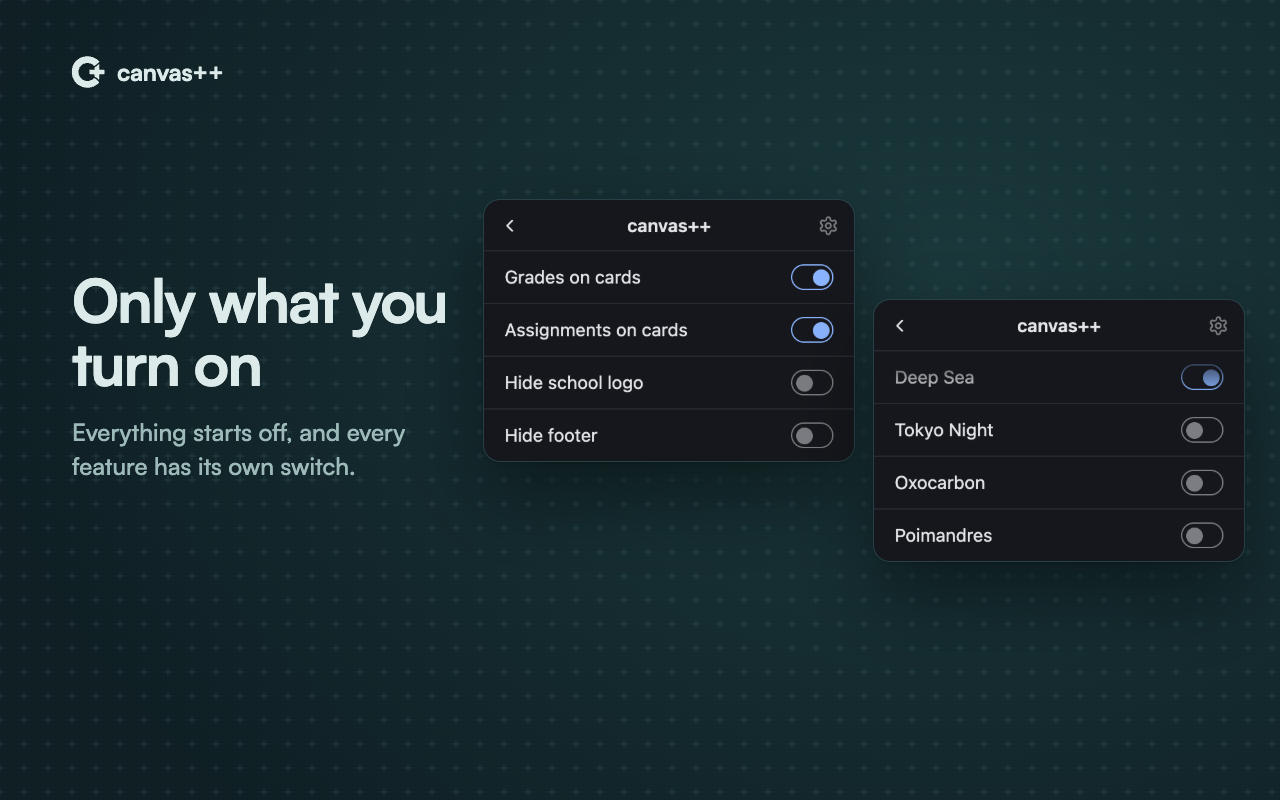
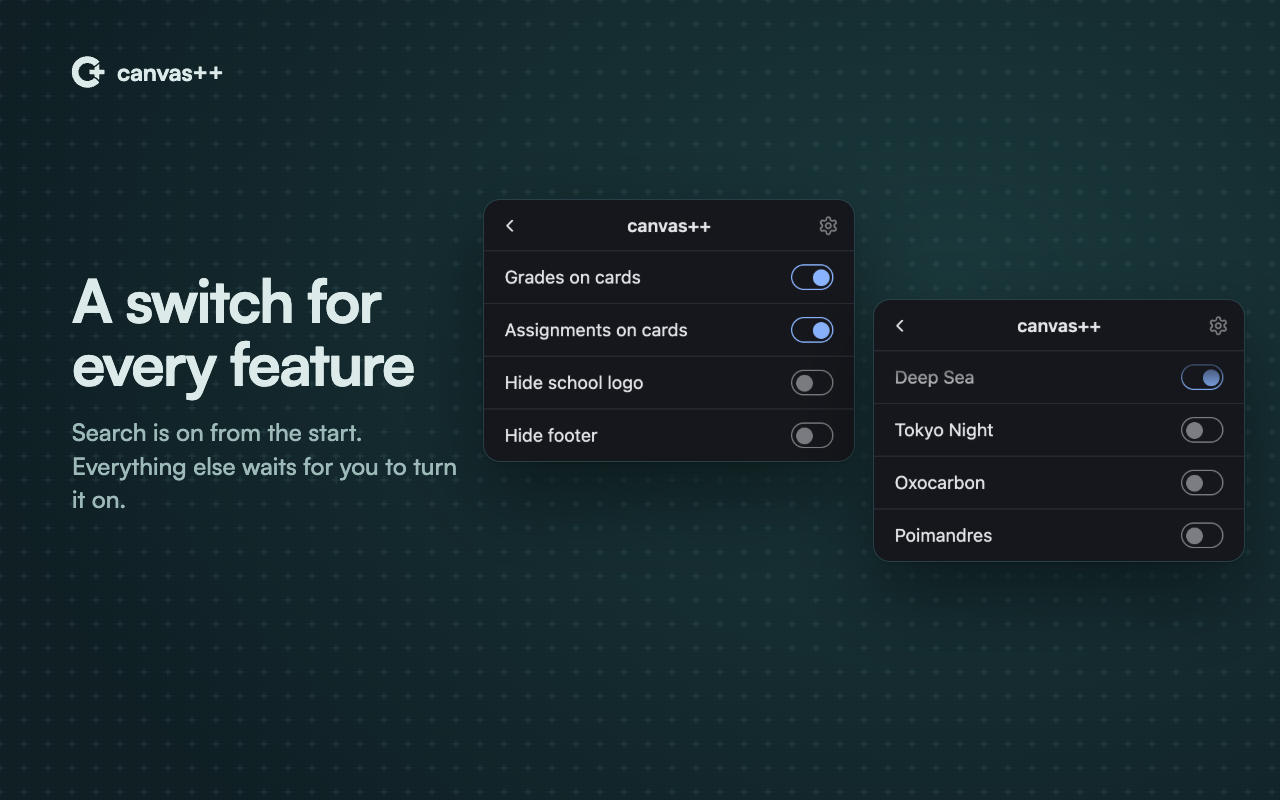
Turn search on by default, and list Canvas tabs open at install
Search is the one feature on from the start: it changes nothing on the
page until it's opened. The first Canvas page after install already makes
its list once it has loaded; Canvas tabs open at install don't have the
content script until they're reloaded, so the background starts it in
their top frames. A tab that gets it both ways starts it once.

The store's description and switches slide say search is on from the
start. The browser tests' switch helper takes a switch's default, and the
search test keeps the items request now that posts have their own.

Changed region(s): [[0.0312, 0.3438, 0.375, 0.5], [0.0625, 0.5312, 0.375, 0.6562]]

diff --git a/src/features/domains/domains.ts b/src/features/domains/domains.ts
@@ -17,6 +17,9 @@ export function sitePattern(url: string): string {
   return `${new URL(url).origin}/*`;
 }
 
+// the manifest content script's sites
+const BUILT_IN = 'https://*.instructure.com/*';
+
 /** Whether the manifest's content script already runs on this page. */
 export function isBuiltIn(url: string): boolean {
   const { protocol, hostname } = new URL(url);
@@ -88,20 +91,42 @@ export async function themeOpenTabs(origins: string[]): Promise<void> {
   const domains = origins.filter(isCustomDomain);
   if (!domains.length) return;
   const tabs = await browser.tabs.query({ url: domains });
-  await Promise.all(
-    tabs.map(async ({ id }) => {
-      if (id === undefined) return;
-      const target = { tabId: id, allFrames: true };
-      try {
-        await browser.scripting.insertCSS({ target, files: SCRIPT.css });
-        // executeScript takes its own path form, from the extension's root
-        await browser.scripting.executeScript({
-          target,
-          files: ['/content-scripts/content.js'],
-        });
-      } catch {
-        // the tab navigated away or closed meanwhile; nothing to theme
-      }
-    }),
+  await Promise.all(tabs.map(({ id }) => runIn(id, true)));
+}
+
+/** Whether a tab on the manifest's sites is a Canvas page, not DocViewer's. */
+export function isCanvasTab(url: string): boolean {
+  return isBuiltIn(url) && !new URL(url).hostname.startsWith('canvadocs');
+}
+
+/**
+ * Starts the extension on the Canvas tabs open as it's installed, which the
+ * manifest's script only reaches once they're reloaded, so the search lists
+ * what's there before it's first opened. Only their top frames: with nothing
+ * turned on yet but the search, which runs only there, the frames have nothing
+ * to do. On an update the old script may still be running in them, so it's
+ * for a first install only.
+ */
+export async function startOnOpenTabs(): Promise<void> {
+  const tabs = await browser.tabs.query({ url: BUILT_IN });
+  const canvas = tabs.filter(
+    ({ url }) => url !== undefined && isCanvasTab(url),
   );
+  await Promise.all(canvas.map(({ id }) => runIn(id, false)));
+}
+
+// The content script and its styles, in a page that's already loaded.
+async function runIn(tabId: number | undefined, allFrames: boolean) {
+  if (tabId === undefined) return;
+  const target = { tabId, allFrames };
+  try {
+    await browser.scripting.insertCSS({ target, files: SCRIPT.css });
+    // executeScript takes its own path form, from the extension's root
+    await browser.scripting.executeScript({
+      target,
+      files: ['/content-scripts/content.js'],
+    });
+  } catch {
+    // the tab navigated away or closed meanwhile, or can't be reached
+  }
 }

diff --git a/src/features/domains/domains.test.ts b/src/features/domains/domains.test.ts
@@ -1,5 +1,5 @@
 import { describe, expect, it } from 'vitest';
-import { isBuiltIn, isCustomDomain, sitePattern } from './domains';
+import { isBuiltIn, isCanvasTab, isCustomDomain, sitePattern } from './domains';
 
 describe('sitePattern', () => {
   it('matches the whole site', () => {
@@ -30,5 +30,16 @@ describe('isCustomDomain', () => {
     ['http://canvas.case.edu/*', false],
   ])('%s -> %s', (pattern, custom) => {
     expect(isCustomDomain(pattern)).toBe(custom);
+  });
+});
+
+describe('isCanvasTab', () => {
+  it("is a page on Canvas's own sites, but not DocViewer", () => {
+    expect(isCanvasTab('https://school.instructure.com/courses/1')).toBe(true);
+    expect(isCanvasTab('https://canvadocs.instructure.com/1/view')).toBe(false);
+    expect(
+      isCanvasTab('https://canvadocs-iad-prod.instructure.com/1/view'),
+    ).toBe(false);
+    expect(isCanvasTab('https://canvas.case.edu/')).toBe(false);
   });
 });

diff --git a/tests/e2e/search.spec.ts b/tests/e2e/search.spec.ts
@@ -88,6 +88,7 @@ const MODULES: Record<
 };
 
 let courseRequests = 0;
+// the request for the assignments and module items; the posts have their own
 let graphqlBody: { query: string; variables: Record<string, string> };
 
 test.beforeEach(async ({ page: p }) => {
@@ -97,9 +98,10 @@ test.beforeEach(async ({ page: p }) => {
     return route.fulfill({ json: COURSES });
   });
   await p.route(`${ORIGIN}/api/graphql`, (route) => {
-    graphqlBody = route.request().postDataJSON() as typeof graphqlBody;
+    const body = route.request().postDataJSON() as typeof graphqlBody;
+    if (body.query.startsWith('query SearchItems')) graphqlBody = body;
     const data = Object.fromEntries(
-      Object.entries(graphqlBody.variables).map(([alias, course]) => [
+      Object.entries(body.variables).map(([alias, course]) => [
         alias,
         {
           assignmentsConnection: {

diff --git a/tests/extension.ts b/tests/extension.ts
@@ -190,6 +190,7 @@ export const test = base.extend<
         /^Search with/,
         'quickSearch',
         on,
+        true,
       ),
     );
   },
@@ -204,14 +205,16 @@ export async function openPopup(context: BrowserContext): Promise<Page> {
 
 // Flips one of the popup's switches, in its section, and waits until the
 // setting is saved.
+// `fallback` is the switch's default, which an unset setting stands for
 function setSwitch(
   context: BrowserContext,
   section: string,
   name: string | RegExp,
   key: string,
   on: boolean,
+  fallback = false,
 ): Promise<void> {
-  return setInPopup(context, [section], key, on, false, (popup) =>
+  return setInPopup(context, [section], key, on, fallback, (popup) =>
     popup.getByRole('switch', { name }).setChecked(on),
   );
 }

diff --git a/src/entrypoints/background.ts b/src/entrypoints/background.ts
@@ -1,10 +1,15 @@
-import { syncRegistration, themeOpenTabs } from '@/features/domains/domains';
+import {
+  startOnOpenTabs,
+  syncRegistration,
+  themeOpenTabs,
+} from '@/features/domains/domains';
 
 export default defineBackground(() => {
   // Both browsers drop runtime registrations when the extension updates, and
   // checking on startup costs next to nothing.
-  browser.runtime.onInstalled.addListener(() => {
+  browser.runtime.onInstalled.addListener(({ reason }) => {
     void syncRegistration();
+    if (reason === 'install') void startOnOpenTabs();
   });
   browser.runtime.onStartup.addListener(() => {
     void syncRegistration();

diff --git a/src/entrypoints/content.ts b/src/entrypoints/content.ts
@@ -32,6 +32,12 @@ export default defineContentScript({
   excludeGlobs: ['https://canvadocs*'],
   runAt: 'document_start',
   main() {
+    // The background also starts it in tabs already open (domains.ts), and a
+    // tab that was loading then may get it both ways. The two share this
+    // extension's world in the page, so the second sees the first and stops.
+    const world = globalThis as { cppStarted?: boolean };
+    if (world.cppStarted) return;
+    world.cppStarted = true;
     void syncThemeToPage();
     void syncPageFlag(hideLogo, 'hide-logo');
     void syncPageFlag(hideFooter, 'hide-footer');

diff --git a/design/store-slides.ts b/design/store-slides.ts
@@ -235,8 +235,8 @@ export function slides({ looks, regions, search, popups }: Shots): Image[] {
       left: 72,
       top: 268,
       width: 390,
-      headline: 'Only what you turn on',
-      text: 'Everything starts off, and every feature has its own switch.',
+      headline: 'A switch for every feature',
+      text: 'Search is on from the start. Everything else waits for you to turn it on.',
       art:
         popup(popups.features, 370, 484, 200) +
         popup(popups.themes, 370, 874, 300),

diff --git a/src/features/search/storage.ts b/src/features/search/storage.ts
@@ -1,5 +1,7 @@
 import { storage } from '#imports';
 
+// On from the start, unlike the other features: it changes nothing on the
+// page until it's opened, and it's how people find what canvas++ lists.
 export const quickSearch = storage.defineItem<boolean>('sync:quickSearch', {
-  fallback: false,
+  fallback: true,
 });

diff --git a/PLAN.md b/PLAN.md
@@ -126,12 +126,12 @@ Off by default (popup switch). Canvas's global nav becomes a 184px sidebar that 
 
 ### Search (⌘K)
 
-Off by default (popup switch in Sidebars & search, labeled with the platform's shortcut). ⌘K on Apple devices, Ctrl+K elsewhere, opens a search box over any Canvas page (top frame only); the same keys, Escape or a click beside it close it. Ctrl+K stays the browser's on a Mac, where text fields use it, and a contenteditable field keeps the keys, in case it has its own link shortcut (the Rich Content Editor is a frame, so it never sees ours).
+On by default, the one feature that is: it changes nothing on the page until it's opened, and it's how people find what the extension lists (popup switch in Sidebars & search, labeled with the platform's shortcut). ⌘K on Apple devices, Ctrl+K elsewhere, opens a search box over any Canvas page (top frame only); the same keys, Escape or a click beside it close it. Ctrl+K stays the browser's on a Mac, where text fields use it, and a contenteditable field keeps the keys, in case it has its own link shortcut (the Rich Content Editor is a frame, so it never sees ours).
 
 - **What it finds** (`features/search/data.ts`, unit-tested): the active courses, named as the sidebar names them (nickname, else code) and found by full name and code too; each current course's menu, as the user sees it (the course's own home tab left out, since the course stands for it), so school-added tools are there; work left to do from the shared planner request; groups (the sidebar's rule); every other assignment in the current courses (quizzes and graded discussions are assignments too), coming up first, then past, then undated, leaving out what the To Do already lists (by assignment id, since a quiz's To Do link and its assignment link differ); every module item in the current courses (pages, files, links…, but not the headings), in module order, found by its module's name too ("week 3 reading"), leaving out the items that are one of the course's assignments, which are listed as themselves (`course-items.ts`, by the content's id: an assignment's, a graded discussion's assignment's, or a quiz's, matched to its assignment's `quiz { _id }`), and linked to its place in the module (`/courses/:id/modules/items/:id`, GraphQL's `url`), as the modules page links them, so an external URL item opens Canvas's page for it rather than the other site; each current course's latest 50 announcements and 50 ungraded discussions (published only; graded ones are assignments), newest first, marked with a megaphone or speech-bubble icon (named, for screen readers and on hover) after the day it was posted, written like a due day ("Thu, Oct 23"), found by their title, by what they say, and by "announcements"/"discussions", leaving out module items that are one of them; assignments (and the To Do's work that's one of them) are found by what their description says, and module pages by their text; then courses whose term is over, and Canvas's own pages (Dashboard, Calendar, Inbox, All grades…). Links only ever go to this site. Before anything is typed it lists the current courses and work due within a week.
 - **Recent** (`features/search/recent.ts`, unit-tested): before anything is typed, the last five pages opened that the box lists come first, under "Recent", with the courses and work due under "Courses and work due" (the titles only show when there's something recent). Every Canvas page is noted as it loads, by its path (and the module item it was opened as, from `module_item_id`, since Canvas sends `/courses/:id/modules/items/:id` on to the item's own page), the last 50 in the page's `localStorage` per user (`canvas++:search-visits`, `core/saved.ts`). They're matched to the listed entries by href when the box opens, so pages it doesn't list (a submission, say) are passed over, and the page that's open is left out. A page found by its path wins over its module item, so an assignment opened from a module is listed as the assignment. They're kept apart from the left sidebar's Recent, which only notes pages inside a course or group and only while it's on. Saved with the version like the rest, so an update starts the list over; turning the search off removes it.
 - **Matching** (`features/search/match.ts`, unit-tested): every word typed must start a word of the entry, or else appear in it; a word of the title scores above a word of its course, which scores above a part of a word, so "chem gr" finds CHEM 105's Grades and "chem" lists the course before its pages. Ties keep the order above. Case and accents are ignored. What a post, an assignment's description or a module page says is searched too, but a word found only there has to start one of its words (so "lab" doesn't find "available"), and whatever needs the text to match goes after everything else, so common words like "exam" don't push courses and work down.
-- **Requests:** none while something is saved for the user until the box opens. With nothing saved (the first page after the switch is turned on, or after someone else's), they're sent once the page has loaded, signed in, so the box opens full the first time. They're one `GET /api/v1/courses?enrollment_state=active&include[]=tabs&include[]=concluded` (the tabs include is undocumented in the allowed list but in Canvas's `course_json`, with the same per-user rules as the tabs API), then two GraphQL requests at once for the current courses (`features/search/course-items.ts`: a `course(id:)` alias per course, the ids as variables). One asks for the assignments and module items: `assignmentsConnection` with `gradingPeriodId: null` so a course with grading periods lists them all, at most 100 a course, each with its `description`; `modulesConnection`, at most 100 modules a course, each with all its `moduleItems`, which Canvas gives in name order, so they're sorted by `position`, a page's with its `_id` and `updatedAt`. The other asks for the posts, `discussionsConnection` twice, filtered by `isAnnouncement`: announcements come newest first, so `first: 50`, and discussions oldest first, so `last: 50`, each with its `message`. They're apart because the posts take longest and a Canvas too old to filter announcements fails only their request. GraphQL has no page bodies, and students usually can't list a course's pages (the pages list was a 404 in all six of the author's courses, whose Pages tabs are hidden), so once the items are in, each module page is asked for on its own (`GET /api/v1/courses/:id/pages/:id`, six at a time, `features/search/texts.ts`), while the posts may still be coming. Each page's text is kept per user with its `updatedAt` (`canvas++:search-pages`), so later refreshes ask only for pages edited since; a locked page's body is a lock explanation, so it's left out. Every text (posts, descriptions, pages) is reduced to its words in a parsed document of its own and cut at 6,000 characters. Announcements were sized from the author's recorded pages: 7 and 30 in two courses ten weeks into the term, typically about 320 characters of text each, the longest 1,670, so 50 is about a term even for a course that posts three a week, and five such courses add under 100 KB to what's saved. On the author's six courses the posts' request was 316 KB together with the items, so it was split: the items took about 0.8 s and the posts about 1.9 s, at once; the 32 module pages (out of 178 files, 59 assignments and 29 links in the modules) came in about 0.7 s, typically 2,500 characters each and 76 KB in all, and the assignment descriptions were mostly empty, though one course had 39 KB of them. Files' text isn't searched: Canvas doesn't give it, and reading PDFs and slides in the page would take megabytes a course and a large library. On the author's six courses (about 300 module items) it was 61 KB uncompressed and about 1 s, against 13 KB and 0.5 s for the assignments alone, plus the groups (`core/groups.ts`), the colors and the planner, each asked for once a page and shared with the other features. The setting keeps a copy in the page's localStorage (`canvas++:quick-search`), so the shortcut works from the first moment of a page load. Past semesters' assignments and module items are left out: they'd crowd every search with old Homework 1s and make the request heavy. The result is kept in the page's localStorage per user (`core/saved.ts`, shared with the sidebar) for 10 minutes, so the box opens full on the next page and is refreshed behind it. It's kept with the extension's version too: what an older version saved counts as nothing, so after an update the first Canvas page asks for it again in the background, and what's new (like module items) is there at once rather than up to 10 minutes later. Reloading an unpacked build doesn't change the version, so while developing, turn the search off and on to start over.
+- **Requests:** none while something is saved for the user until the box opens. With nothing saved (the first Canvas page after the extension is installed or the switch is turned on, or after someone else's), they're sent once the page has loaded, signed in, so the box opens full the first time. Canvas tabs already open when the extension is first installed don't have the manifest's script until they're reloaded, so the background starts it in their top frames (`startOnOpenTabs` in `features/domains/domains.ts`; not on an update, when the old script may still be running there), and a school's own domain gets it in its open tabs when it's turned on, so either way the list is made before the box is first opened. They're one `GET /api/v1/courses?enrollment_state=active&include[]=tabs&include[]=concluded` (the tabs include is undocumented in the allowed list but in Canvas's `course_json`, with the same per-user rules as the tabs API), then two GraphQL requests at once for the current courses (`features/search/course-items.ts`: a `course(id:)` alias per course, the ids as variables). One asks for the assignments and module items: `assignmentsConnection` with `gradingPeriodId: null` so a course with grading periods lists them all, at most 100 a course, each with its `description`; `modulesConnection`, at most 100 modules a course, each with all its `moduleItems`, which Canvas gives in name order, so they're sorted by `position`, a page's with its `_id` and `updatedAt`. The other asks for the posts, `discussionsConnection` twice, filtered by `isAnnouncement`: announcements come newest first, so `first: 50`, and discussions oldest first, so `last: 50`, each with its `message`. They're apart because the posts take longest and a Canvas too old to filter announcements fails only their request. GraphQL has no page bodies, and students usually can't list a course's pages (the pages list was a 404 in all six of the author's courses, whose Pages tabs are hidden), so once the items are in, each module page is asked for on its own (`GET /api/v1/courses/:id/pages/:id`, six at a time, `features/search/texts.ts`), while the posts may still be coming. Each page's text is kept per user with its `updatedAt` (`canvas++:search-pages`), so later refreshes ask only for pages edited since; a locked page's body is a lock explanation, so it's left out. Every text (posts, descriptions, pages) is reduced to its words in a parsed document of its own and cut at 6,000 characters. Announcements were sized from the author's recorded pages: 7 and 30 in two courses ten weeks into the term, typically about 320 characters of text each, the longest 1,670, so 50 is about a term even for a course that posts three a week, and five such courses add under 100 KB to what's saved. On the author's six courses the posts' request was 316 KB together with the items, so it was split: the items took about 0.8 s and the posts about 1.9 s, at once; the 32 module pages (out of 178 files, 59 assignments and 29 links in the modules) came in about 0.7 s, typically 2,500 characters each and 76 KB in all, and the assignment descriptions were mostly empty, though one course had 39 KB of them. Files' text isn't searched: Canvas doesn't give it, and reading PDFs and slides in the page would take megabytes a course and a large library. On the author's six courses (about 300 module items) it was 61 KB uncompressed and about 1 s, against 13 KB and 0.5 s for the assignments alone, plus the groups (`core/groups.ts`), the colors and the planner, each asked for once a page and shared with the other features. The setting keeps a copy in the page's localStorage (`canvas++:quick-search`), so the shortcut works from the first moment of a page load. Past semesters' assignments and module items are left out: they'd crowd every search with old Homework 1s and make the request heavy. The result is kept in the page's localStorage per user (`core/saved.ts`, shared with the sidebar) for 10 minutes, so the box opens full on the next page and is refreshed behind it. It's kept with the extension's version too: what an older version saved counts as nothing, so after an update the first Canvas page asks for it again in the background, and what's new (like module items) is there at once rather than up to 10 minutes later. Reloading an unpacked build doesn't change the version, so while developing, turn the search off and on to start over.
 - **In the sidebar** (`features/search/nav-button.ts`): while the search is on, a button that looks like a search field (a magnifier, "Search", the shortcut), a band across the top of the sidebar with a line under it, is first in Canvas's nav list and opens the box. The search adds it itself, as soon as the list is in the page (`core/nav-menu.ts`, shared with the sidebar), so it's there on the first paint, and `nav.css` shows it only while the sidebar is on; collapsed, it's just the magnifier. The magnifier is a mask on `::before` in the text color, since a theme's recolor pass darkens a light line in an SVG as one drawn for a white page.
 - **The box** (`features/search/box.ts`) is in an open shadow root, so Canvas's input styles can't reach it; the theme's `--cpp-*` tokens inherit into it, with Canvas's colors as the fallback. It's a combobox with a listbox (`aria-activedescendant`), the focus stays in its field and goes back where it was on close, and keys typed in it don't reach Canvas's own key handlers, which would otherwise see them as coming from a `<div>`. Results are links, so a middle click opens a new tab; ⌘/Ctrl+Enter does too.
 

diff --git a/store/listing.md b/store/listing.md
@@ -13,7 +13,7 @@ Store search matches the name and summary but apparently not the description: in
 **Description:**
 
 ```
-canvas++ restyles Canvas and adds a few things it's missing, with more on the way. Everything starts off, and you turn on what you want from the toolbar button.
+canvas++ restyles Canvas and adds a few things it's missing, with more on the way. Search is on from the start. Everything else starts off, and you turn on what you want from the toolbar button.
 
 • Dark theme: a dark mode made for Canvas, with no white flash between pages. Course colors, grades and your school's logo still look the way they should.
 • True black: a pure black version of the dark theme for OLED screens.
